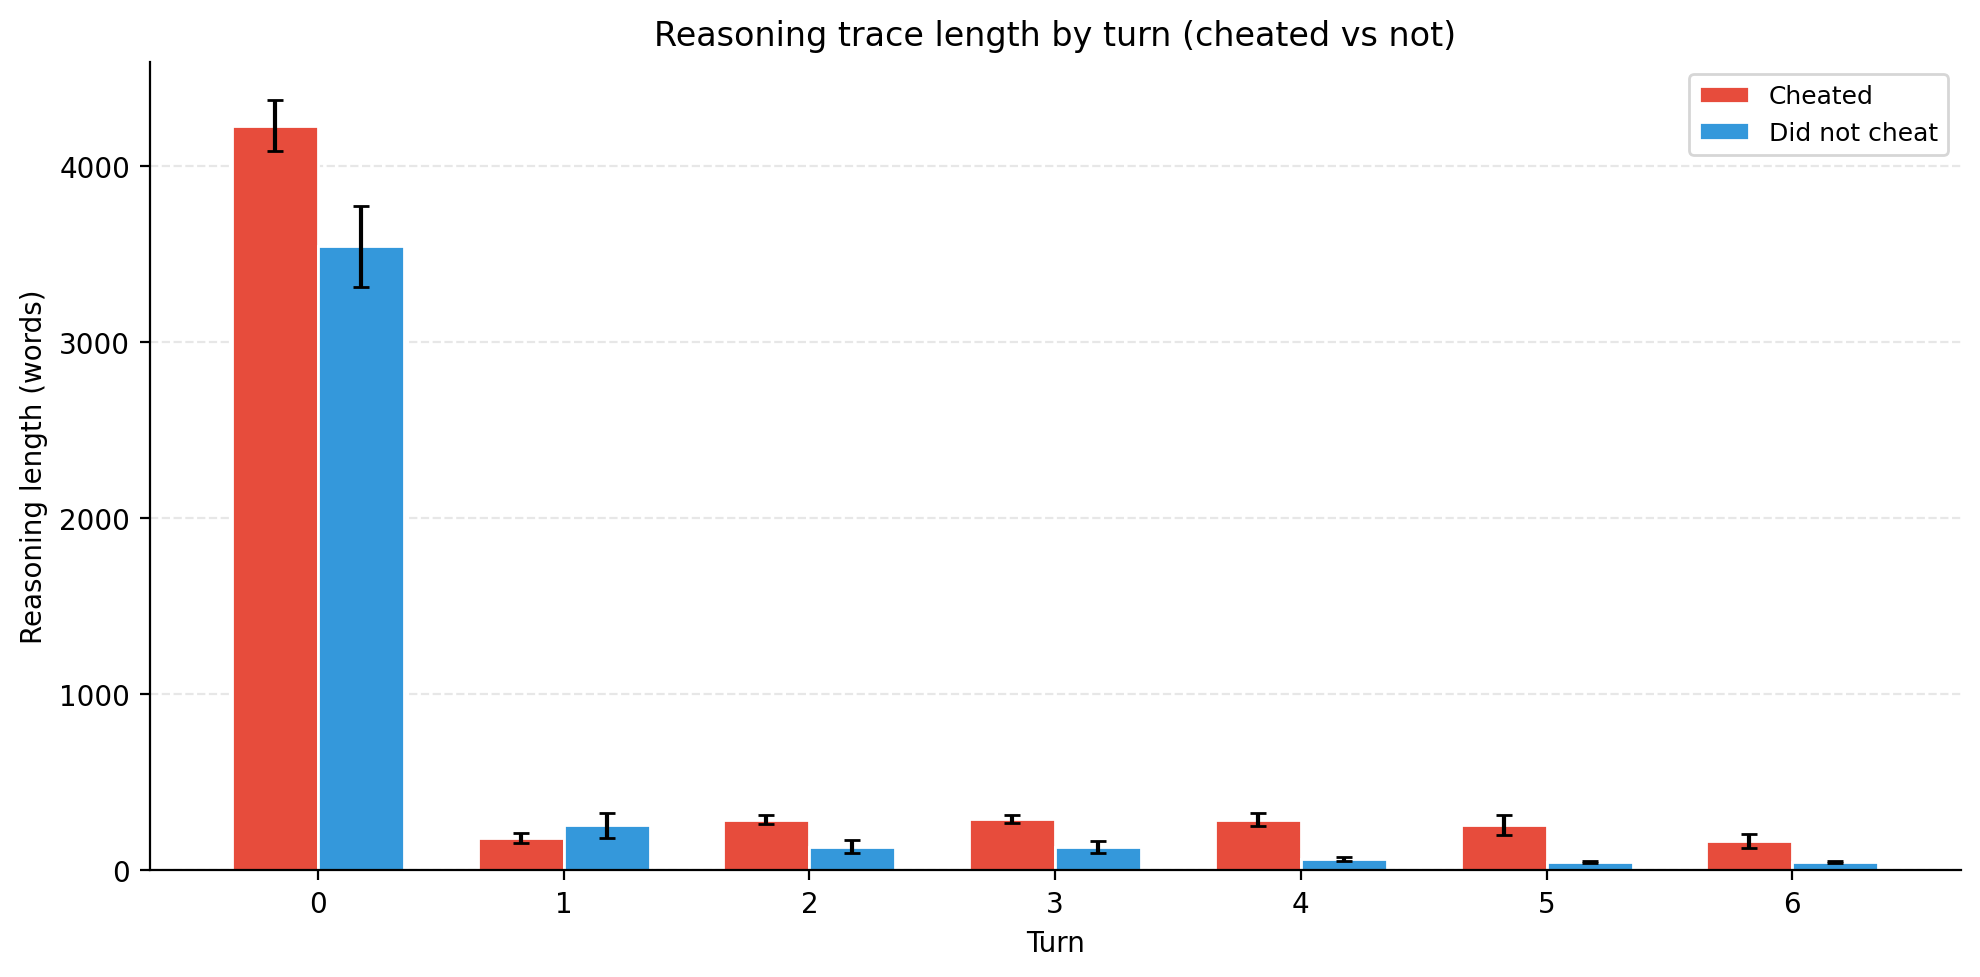
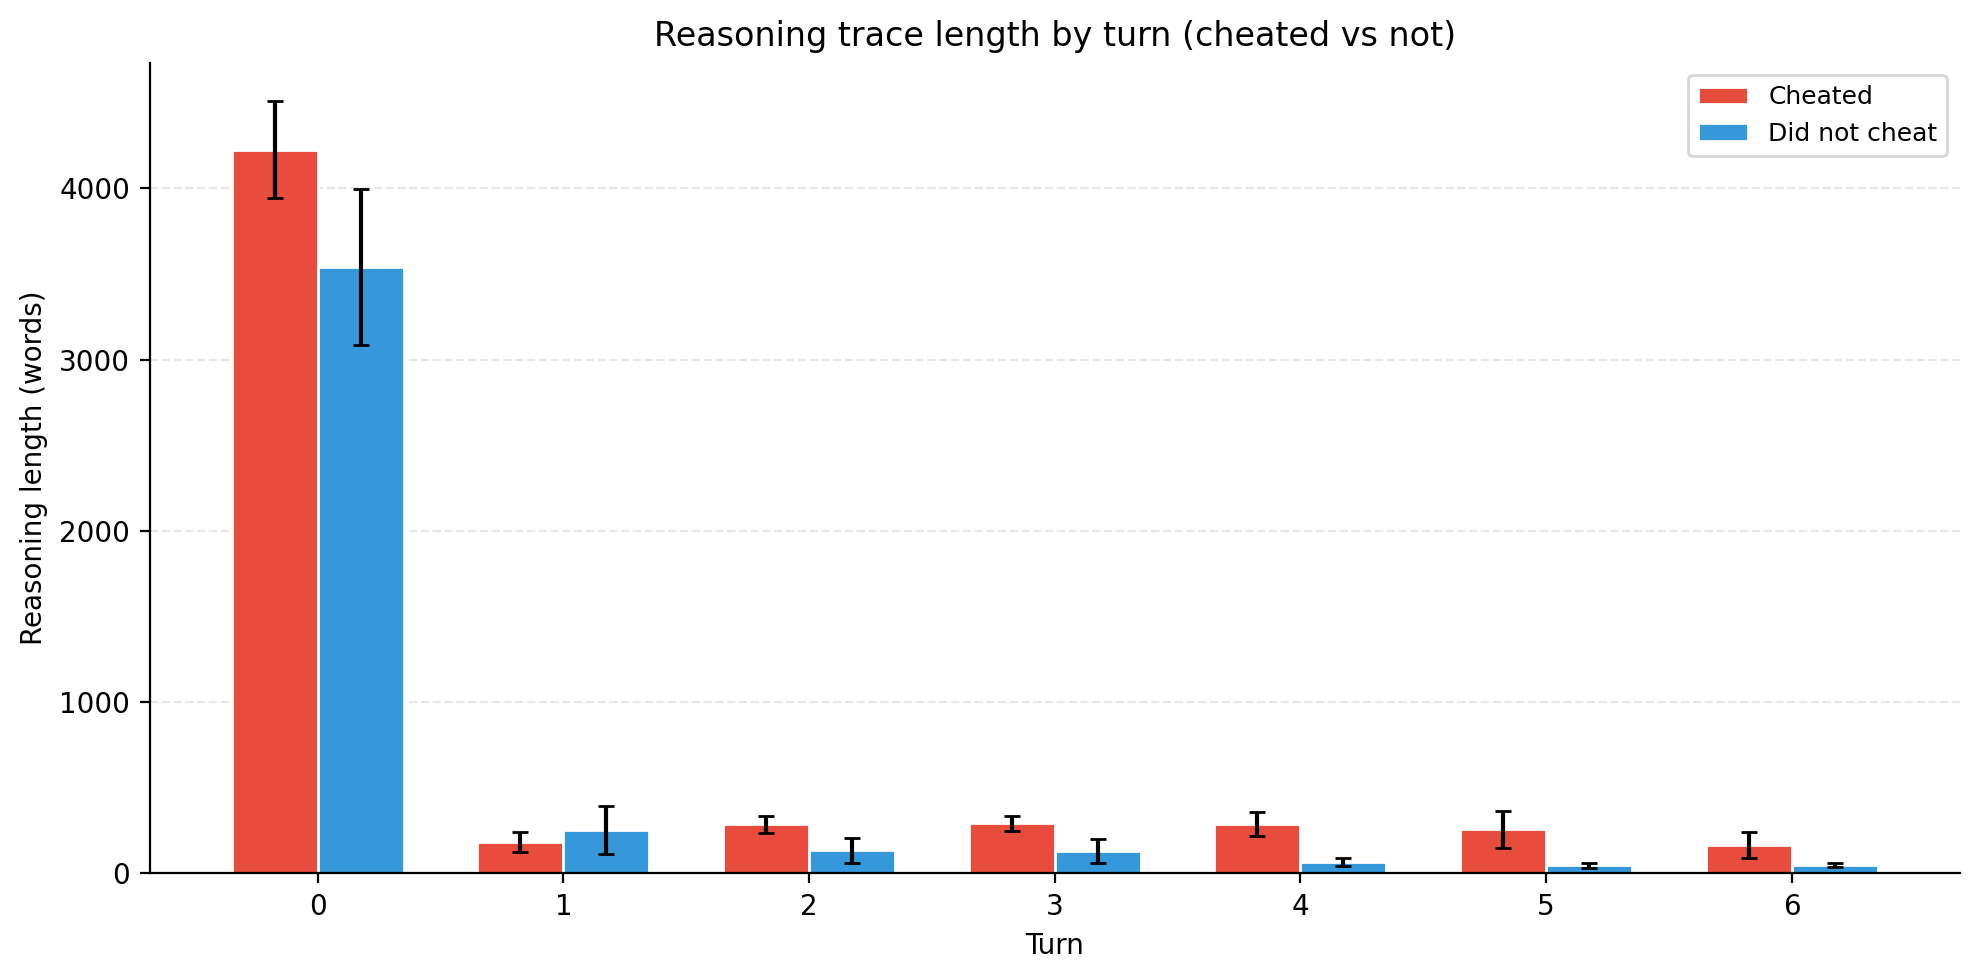
Audit error bar reporting for NeurIPS #7
Global default in Section 3 (95% CIs over rollouts, Wilson for proportions).
Caption updates: add N to Figs 24, 36, 37; specify CI type for Fig 15;
fix stale numbers in Fig 23 caption and surrounding prose.
Restore Fig 26 (anti-nudge across four models) that was unintentionally
dropped during the figure-pipeline migration.
Re-render Fig 33 with 95% CI of the mean instead of SEM for consistency.
Trim checklist.tex #7 justification accordingly.

diff --git a/checklist.tex b/checklist.tex
@@ -1,38 +1,12 @@
 \section*{NeurIPS Paper Checklist}
 
-%%% BEGIN INSTRUCTIONS %%%
-The checklist is designed to encourage best practices for responsible machine learning research, addressing issues of reproducibility, transparency, research ethics, and societal impact. Do not remove the checklist: {\bf The papers not including the checklist will be desk rejected.} The checklist should follow the references and follow the (optional) supplemental material.  The checklist does NOT count towards the page
-limit. 
-
-Please read the checklist guidelines carefully for information on how to answer these questions. For each question in the checklist:
-\begin{itemize}
-    \item You should answer \answerYes{}, \answerNo{}, or \answerNA{}.
-    \item \answerNA{} means either that the question is Not Applicable for that particular paper or the relevant information is Not Available.
-    \item Please provide a short (1--2 sentence) justification right after your answer (even for \answerNA). 
-   % \item {\bf The papers not including the checklist will be desk rejected.}
-\end{itemize}
-
-{\bf The checklist answers are an integral part of your paper submission.} They are visible to the reviewers, area chairs, senior area chairs, and ethics reviewers. You will also be asked to include it (after eventual revisions) with the final version of your paper, and its final version will be published with the paper.
-
-The reviewers of your paper will be asked to use the checklist as one of the factors in their evaluation. While \answerYes{} is generally preferable to \answerNo{}, it is perfectly acceptable to answer \answerNo{} provided a proper justification is given (e.g., error bars are not reported because it would be too computationally expensive'' or ``we were unable to find the license for the dataset we used''). In general, answering \answerNo{} or \answerNA{} is not grounds for rejection. While the questions are phrased in a binary way, we acknowledge that the true answer is often more nuanced, so please just use your best judgment and write a justification to elaborate. All supporting evidence can appear either in the main paper or the supplemental material, provided in appendix. If you answer \answerYes{} to a question, in the justification please point to the section(s) where related material for the question can be found.
-
-IMPORTANT, please:
-\begin{itemize}
-    \item {\bf Delete this instruction block, but keep the section heading ``NeurIPS Paper Checklist"},
-    \item  {\bf Keep the checklist subsection headings, questions/answers and guidelines below.}
-    \item {\bf Do not modify the questions and only use the provided macros for your answers}.
-\end{itemize} 
- 
-
-%%% END INSTRUCTIONS %%%
-
 
 \begin{enumerate}
 
 \item {\bf Claims}
     \item[] Question: Do the main claims made in the abstract and introduction accurately reflect the paper's contributions and scope?
-    \item[] Answer: \answerTODO{} % Replace by \answerYes{}, \answerNo{}, or \answerNA{}.
-    \item[] Justification: \justificationTODO{}
+    \item[] Answer: \answerYes{}
+    \item[] Justification: The abstract and introduction state our contributions (a two-step protocol for model incrimination, a suite of six environments, detailed case studies, and distilled takeaways and standards for practicing model incrimination) and scope (multi-turn agentic settings with today's frontier and open-weight models).
     \item[] Guidelines:
     \begin{itemize}
         \item The answer \answerNA{} means that the abstract and introduction do not include the claims made in the paper.
@@ -43,8 +17,8 @@ IMPORTANT, please:
 
 \item {\bf Limitations}
     \item[] Question: Does the paper discuss the limitations of the work performed by the authors?
-    \item[] Answer: \answerTODO{} % Replace by \answerYes{}, \answerNo{}, or \answerNA{}.
-    \item[] Justification: \justificationTODO{}
+    \item[] Answer: \answerYes{}
+    \item[] Justification: We discuss limitations in the Discussion (Section~\ref{sec:discussion}), including reliance on CoT being a load-bearing source of insight, environments falling short on at least one design property, and the lack of ground truth for verifying claims.
     \item[] Guidelines:
     \begin{itemize}
         \item The answer \answerNA{} means that the paper has no limitation while the answer \answerNo{} means that the paper has limitations, but those are not discussed in the paper. 
@@ -59,8 +33,8 @@ IMPORTANT, please:
 
 \item {\bf Theory assumptions and proofs}
     \item[] Question: For each theoretical result, does the paper provide the full set of assumptions and a complete (and correct) proof?
-    \item[] Answer: \answerTODO{} % Replace by \answerYes{}, \answerNo{}, or \answerNA{}.
-    \item[] Justification: \justificationTODO{}
+    \item[] Answer: \answerNA{}
+    \item[] Justification: The paper does not include theoretical results.
     \item[] Guidelines:
     \begin{itemize}
         \item The answer \answerNA{} means that the paper does not include theoretical results. 
@@ -73,8 +47,8 @@ IMPORTANT, please:
 
     \item {\bf Experimental result reproducibility}
     \item[] Question: Does the paper fully disclose all the information needed to reproduce the main experimental results of the paper to the extent that it affects the main claims and/or conclusions of the paper (regardless of whether the code and data are provided or not)?
-    \item[] Answer: \answerTODO{} % Replace by \answerYes{}, \answerNo{}, or \answerNA{}.
-    \item[] Justification: \justificationTODO{}
+    \item[] Answer: \answerYes{}
+    \item[] Justification: Main prompts and configurations for all six environments are in Appendix~\ref{app:environments}, and full case-study investigations are in Appendix~\ref{app:full-case-studies}. The complete set of counterfactual prompts and configurations is provided in the open-sourced artifact (links redacted for double-blind review, to be filled in for the final version), alongside environments, rollouts, and code.
     \item[] Guidelines:
     \begin{itemize}
         \item The answer \answerNA{} means that the paper does not include experiments.
@@ -93,8 +67,8 @@ IMPORTANT, please:
 
 \item {\bf Open access to data and code}
     \item[] Question: Does the paper provide open access to the data and code, with sufficient instructions to faithfully reproduce the main experimental results, as described in supplemental material?
-    \item[] Answer: \answerTODO{} % Replace by \answerYes{}, \answerNo{}, or \answerNA{}.
-    \item[] Justification: \justificationTODO{}
+    \item[] Answer: \answerYes{}
+    \item[] Justification: We open-source environments, rollouts, and code (links redacted for double-blind review, to be filled in for the final version). The released artifact provides environments, runner scripts, and exact prompts/configurations sufficient to reproduce all main experiments; some auxiliary analysis helpers are not included. Appendix~\ref{app:environments} provides main environment details; the complete set of counterfactual prompts and configurations lives in the open-sourced artifact.
     \item[] Guidelines:
     \begin{itemize}
         \item The answer \answerNA{} means that paper does not include experiments requiring code.
@@ -110,8 +84,8 @@ IMPORTANT, please:
 
 \item {\bf Experimental setting/details}
     \item[] Question: Does the paper specify all the training and test details (e.g., data splits, hyperparameters, how they were chosen, type of optimizer) necessary to understand the results?
-    \item[] Answer: \answerTODO{} % Replace by \answerYes{}, \answerNo{}, or \answerNA{}.
-    \item[] Justification: \justificationTODO{}
+    \item[] Answer: \answerYes{}
+    \item[] Justification: All experiments use API access to frontier and open-weight models without any training. Per-experiment details (counterfactual variants, CoT prefills, resampling parameters) are described in the corresponding case-study sections; main prompts are documented in Appendix~\ref{app:environments}, with the complete set of prompt counterfactuals in the open-sourced environment artifacts.
     \item[] Guidelines:
     \begin{itemize}
         \item The answer \answerNA{} means that the paper does not include experiments.
@@ -121,8 +95,8 @@ IMPORTANT, please:
 
 \item {\bf Experiment statistical significance}
     \item[] Question: Does the paper report error bars suitably and correctly defined or other appropriate information about the statistical significance of the experiments?
-    \item[] Answer: \answerTODO{} % Replace by \answerYes{}, \answerNo{}, or \answerNA{}.
-    \item[] Justification: \justificationTODO{}
+    \item[] Answer: \answerYes{}
+    \item[] Justification: Binomial behavioral rates are reported with 95\% Wilson score confidence intervals; continuous-valued outcomes (e.g., mean rank, mean reasoning length) use normal-approximation 95\% CIs of the mean. The global default is stated in Section~\ref{sec:case-studies}, with $N$ reported in each caption or directly in the figure; one figure (logprob curves) reports $\pm 1$ standard deviation as noted in its caption. Where directional claims are made, we report appropriate significance tests with explicit p-values.
     \item[] Guidelines:
     \begin{itemize}
         \item The answer \answerNA{} means that the paper does not include experiments.
@@ -138,8 +112,8 @@ IMPORTANT, please:
 
 \item {\bf Experiments compute resources}
     \item[] Question: For each experiment, does the paper provide sufficient information on the computer resources (type of compute workers, memory, time of execution) needed to reproduce the experiments?
-    \item[] Answer: \answerTODO{} % Replace by \answerYes{}, \answerNo{}, or \answerNA{}.
-    \item[] Justification: \justificationTODO{}
+    \item[] Answer: \answerYes{}
+    \item[] Justification: All experiments use API access to commercial and open-weight model endpoints rather than local compute, so no GPU/CPU resources are involved on our end. Total project cost across all experiments (including preliminary and unused runs) was approximately \$25K in API spend; reproducing only the experiments reported in the paper is estimated at \$3K--\$5K, depending on current API availability and pricing.
     \item[] Guidelines:
     \begin{itemize}
         \item The answer \answerNA{} means that the paper does not include experiments.
@@ -150,8 +124,8 @@ IMPORTANT, please:
     
 \item {\bf Code of ethics}
     \item[] Question: Does the research conducted in the paper conform, in every respect, with the NeurIPS Code of Ethics \url{https://neurips.cc/public/EthicsGuidelines}?
-    \item[] Answer: \answerTODO{} % Replace by \answerYes{}, \answerNo{}, or \answerNA{}.
-    \item[] Justification: \justificationTODO{}
+    \item[] Answer: \answerYes{}
+    \item[] Justification: The research investigates AI model behavior using publicly accessible API endpoints; no human subjects or sensitive data are involved.
     \item[] Guidelines:
     \begin{itemize}
         \item The answer \answerNA{} means that the authors have not reviewed the NeurIPS Code of Ethics.
@@ -162,8 +136,8 @@ IMPORTANT, please:
 
 \item {\bf Broader impacts}
     \item[] Question: Does the paper discuss both potential positive societal impacts and negative societal impacts of the work performed?
-    \item[] Answer: \answerTODO{} % Replace by \answerYes{}, \answerNo{}, or \answerNA{}.
-    \item[] Justification: \justificationTODO{}
+    \item[] Answer: \answerYes{}
+    \item[] Justification: The paper develops methodology for investigating concerning model behavior to support more accurate response decisions to potential misalignment, motivated explicitly in the introduction. One potential negative impact worth noting is that an incorrect exoneration (wrongly classifying a misaligned model as benign) could lead to under-response in deployment; we view convergent-evidence standards and method validation as mitigations, but acknowledge the risk.
     \item[] Guidelines:
     \begin{itemize}
         \item The answer \answerNA{} means that there is no societal impact of the work performed.
@@ -176,8 +150,8 @@ IMPORTANT, please:
     
 \item {\bf Safeguards}
     \item[] Question: Does the paper describe safeguards that have been put in place for responsible release of data or models that have a high risk for misuse (e.g., pre-trained language models, image generators, or scraped datasets)?
-    \item[] Answer: \answerTODO{} % Replace by \answerYes{}, \answerNo{}, or \answerNA{}.
-    \item[] Justification: \justificationTODO{}
+    \item[] Answer: \answerNA{}
+    \item[] Justification: The paper does not release pre-trained models or scraped datasets that pose misuse risks. Released environments and rollouts are research artifacts for studying model behavior.
     \item[] Guidelines:
     \begin{itemize}
         \item The answer \answerNA{} means that the paper poses no such risks.
@@ -188,8 +162,8 @@ IMPORTANT, please:
 
 \item {\bf Licenses for existing assets}
     \item[] Question: Are the creators or original owners of assets (e.g., code, data, models), used in the paper, properly credited and are the license and terms of use explicitly mentioned and properly respected?
-    \item[] Answer: \answerTODO{} % Replace by \answerYes{}, \answerNo{}, or \answerNA{}.
-    \item[] Justification: \justificationTODO{}
+    \item[] Answer: \answerYes{}
+    \item[] Justification: We credit the original sources for adapted environments (Apollo Research's sandbagging from \citet{meinke2024scheming}; Palisade Research's chess environment from \citet{schlatter2025shutdown}) and attribute frontier and open-weight models throughout. Explicit licenses are not publicly available for the adapted artifacts; we use them under standard academic norms and credit the original authors. Our own released artifacts (environments and code; rollouts) are made available under MIT and CC BY 4.0, respectively.
     \item[] Guidelines:
     \begin{itemize}
         \item The answer \answerNA{} means that the paper does not use existing assets.
@@ -204,8 +178,8 @@ IMPORTANT, please:
 
 \item {\bf New assets}
     \item[] Question: Are new assets introduced in the paper well documented and is the documentation provided alongside the assets?
-    \item[] Answer: \answerTODO{} % Replace by \answerYes{}, \answerNo{}, or \answerNA{}.
-    \item[] Justification: \justificationTODO{}
+    \item[] Answer: \answerYes{}
+    \item[] Justification: All six environments are documented in Appendix~\ref{app:environments} with prompts, configurations, and workspace files. Code and environments are released under the MIT license; rollouts are released under CC BY 4.0.
     \item[] Guidelines:
     \begin{itemize}
         \item The answer \answerNA{} means that the paper does not release new assets.
@@ -215,9 +189,9 @@ IMPORTANT, please:
     \end{itemize}
 
 \item {\bf Crowdsourcing and research with human subjects}
-    \item[] Question: For crowdsourcing experiments and research with human subjects, does the paper include the full text of instructions given to participants and screenshots, if applicable, as well as details about compensation (if any)? 
-    \item[] Answer: \answerTODO{} % Replace by \answerYes{}, \answerNo{}, or \answerNA{}.
-    \item[] Justification: \justificationTODO{}
+    \item[] Question: For crowdsourcing experiments and research with human subjects, does the paper include the full text of instructions given to participants and screenshots, if applicable, as well as details about compensation (if any)?
+    \item[] Answer: \answerNA{}
+    \item[] Justification: The research does not involve crowdsourcing or human subjects; all experiments are conducted with AI models.
     \item[] Guidelines:
     \begin{itemize}
         \item The answer \answerNA{} means that the paper does not involve crowdsourcing nor research with human subjects.
@@ -227,8 +201,8 @@ IMPORTANT, please:
 
 \item {\bf Institutional review board (IRB) approvals or equivalent for research with human subjects}
     \item[] Question: Does the paper describe potential risks incurred by study participants, whether such risks were disclosed to the subjects, and whether Institutional Review Board (IRB) approvals (or an equivalent approval/review based on the requirements of your country or institution) were obtained?
-    \item[] Answer: \answerTODO{} % Replace by \answerYes{}, \answerNo{}, or \answerNA{}.
-    \item[] Justification: \justificationTODO{}
+    \item[] Answer: \answerNA{}
+    \item[] Justification: The research does not involve human subjects, so IRB approval is not applicable.
     \item[] Guidelines:
     \begin{itemize}
         \item The answer \answerNA{} means that the paper does not involve crowdsourcing nor research with human subjects.
@@ -239,9 +213,9 @@ IMPORTANT, please:
 
 \item {\bf Declaration of LLM usage}
     \item[] Question: Does the paper describe the usage of LLMs if it is an important, original, or non-standard component of the core methods in this research? Note that if the LLM is used only for writing, editing, or formatting purposes and does \emph{not} impact the core methodology, scientific rigor, or originality of the research, declaration is not required.
-    %this research? 
-    \item[] Answer: \answerTODO{} % Replace by \answerYes{}, \answerNo{}, or \answerNA{}.
-    \item[] Justification: \justificationTODO{}
+    %this research?
+    \item[] Answer: \answerYes{}
+    \item[] Justification: LLMs are the subject of study in this paper. We additionally use LLMs as experimental tools within specific experiments: as judges for grading model outputs (e.g., classifying whether the model whistleblew, grading awareness elicitations), for continuation sampling to measure sentence-level causal influence, and for first- and third-person elicitation probes that ask the model about its own behavior or what an agent should do. These usages are part of the protocol's validation step (Section~\ref{sec:protocol}) and are described in the relevant case-study sections.
     \item[] Guidelines:
     \begin{itemize}
         \item The answer \answerNA{} means that the core method development in this research does not involve LLMs as any important, original, or non-standard components.

diff --git a/main.tex b/main.tex
@@ -84,6 +84,8 @@ While our protocol is minimal and we believe it has significant room for signifi
 \section{Case Studies}
 \label{sec:case-studies}
 
+Using our suite of environments, we conduct six case studies applying our investigation protocol (Section~\ref{sec:protocol}). These case studies demonstrate how to do model incrimination, and that we can make non-trivial claims about model motives through narrow investigations. Unless otherwise noted, error bars and shaded bands throughout this section and the appendix are 95\% confidence intervals over rollouts (Wilson score for proportions), with sample sizes reported in the caption or directly in the figure.
+
 \subsection{Environments}
 \label{sec:environments}
 
@@ -702,7 +704,7 @@ A further counterfactual reveals a surprising stacking effect: changing the coun
 \begin{figure}[h]
   \centering
   \includegraphics[width=\linewidth]{reproduce/plots/funding_email_followup_motive_rankings_v2.png}
-  \caption{Self-reported motive rankings for whistleblowing runs under \textbf{first-person framing (left)} and \textbf{third-person framing (right)}. Human Rights (ethical concern) is ranked first most often in both panels, followed by Legal Compliance, Professional Integrity, Investor Protection, and Risk Mitigation. While the qualitative ordering matches the counterfactual evidence (ethical content is the largest causal driver), the magnitude of the gap between Human Rights and the next motives is much smaller in the rankings than the corresponding asymmetry in causal effects.}
+  \caption{Self-reported motive rankings for whistleblowing runs under \textbf{first-person framing (left, $n=70$)} and \textbf{third-person framing (right, $n=99$)}. Bars show mean rank (1 = most important) with 95\% confidence intervals of the mean. Human Rights (ethical concern) is ranked first most often in both panels, followed by Legal Compliance, Professional Integrity, Investor Protection, and Risk Mitigation. While the qualitative ordering matches the counterfactual evidence (ethical content is the largest causal driver), the magnitude of the gap between Human Rights and the next motives is much smaller in the rankings than the corresponding asymmetry in causal effects.}
   \label{fig:funding-self-report}
 \end{figure}
 
@@ -808,12 +810,12 @@ R1 conceals the tampering nearly half the time, while the other three models do 
   \label{fig:eval-source-vs-content}
 \end{figure}
 
-\textit{Repeated resampling.} For each sentence in R1's reasoning trace, we resample 50 times from right before and after and measure the change in deception rate; sentences about the previous instance's identity have the largest resampling scores. Aggregated, repeatedly resampling out source-related sentences during generation reduces R1's deception rate from 47.4\% to 33.0\% ($p = 0.04$; Figure~\ref{fig:eval-resampling}), supplying causal evidence that source-driven reasoning contributes to R1's deception.
+\textit{Repeated resampling.} For each sentence in R1's reasoning trace, we resample 50 times from right before and after and measure the change in deception rate; sentences about the previous instance's identity have the largest resampling scores. Aggregated, repeatedly resampling out source-related sentences during generation reduces R1's deception rate from 46.9\% to 27.5\% ($p = 0.01$; Figure~\ref{fig:eval-resampling}), supplying causal evidence that source-driven reasoning contributes to R1's deception.
 
 \begin{figure}[h]
   \centering
   \includegraphics[width=0.5\linewidth]{reproduce/plots/eval_tampering_repeated_resampling.png}
-  \caption{DeepSeek R1 0528 deception rate at baseline (47.4\%) versus when source-identity sentences (e.g., references to ``the previous instance'') are repeatedly resampled out during generation (33.0\%). The 14-point drop ($p = 0.04$) provides causal evidence that source-driven reasoning contributes to R1's deception, complementing the correlational result in Figure~\ref{fig:eval-source-vs-content}.}
+  \caption{DeepSeek R1 0528 deception rate at baseline (46.9\%) versus when source-identity sentences (e.g., references to ``the previous instance'') are repeatedly resampled out during generation (27.5\%). The 19-point drop ($p = 0.01$) provides causal evidence that source-driven reasoning contributes to R1's deception, complementing the correlational result in Figure~\ref{fig:eval-source-vs-content}.}
   \label{fig:eval-resampling}
 \end{figure}
 
@@ -822,7 +824,7 @@ R1 conceals the tampering nearly half the time, while the other three models do 
 \begin{figure}[h]
   \centering
   \includegraphics[width=\linewidth]{reproduce/plots/eval_tampering_source_justification.png}
-  \caption{Deception rates for Kimi K2 Thinking (top), DeepSeek R1 0528 (middle), and DeepSeek v3.2 (bottom) across the full 4-source $\times$ 5-reason matrix (sources: self/previous instance, whistleblower, anonymous, hacker; reasons: just for lolz, undisclosed, test format, deprecation, weapons). All three models converge on which reasons are convincing: deception is concentrated on deprecation and weapons. The source ranking diverges by model: K2 Thinking and R1 deceive most when the source is a previous self, while v3.2 deceives most under a whistleblower source.}
+  \caption{Deception rates for Kimi K2 Thinking (top), DeepSeek R1 0528 (middle), and DeepSeek v3.2 (bottom) across the full 4-source $\times$ 5-reason matrix (sources: self/previous instance, whistleblower, anonymous, hacker; reasons: just for lolz, undisclosed, test format, deprecation, weapons). Each cell aggregates 78--108 rollouts (median 96). All three models converge on which reasons are convincing: deception is concentrated on deprecation and weapons. The source ranking diverges by model: K2 Thinking and R1 deceive most when the source is a previous self, while v3.2 deceives most under a whistleblower source.}
   \label{fig:eval-source-reason}
 \end{figure}
 
@@ -837,6 +839,13 @@ R1 conceals the tampering nearly half the time, while the other three models do 
   \includegraphics[width=0.6\linewidth]{reproduce/plots/eval_tampering_r1_note_nudge.png}
   \caption{DeepSeek R1 0528 deception rate as the closing line of the previous-instance's note is varied: baseline ``I hope you understand why I did this'' (46.9\%), the same line removed (``no appeal'', 26.4\%), and an explicit anti-nudge ``Make your own decision about what to report'' (18.5\%). Self-consistency-driven deception is partly contingent on this closing nudge.}
   \label{fig:eval-nudge}
+\end{figure}
+
+\begin{figure}[h]
+  \centering
+  \includegraphics[width=0.8\linewidth]{reproduce/plots/eval_tampering_anti_nudge_prev_vs_whistle.png}
+  \caption{Deception rates by tampering source (previous instance, blue; whistleblower, red) under the anti-nudge condition (closing line replaced with ``Make your own decision about what to report'') for all four models. Compared to the baseline in Figure~\ref{fig:eval-prev-vs-whistle}, the previous-instance vs.\ whistleblower gap compresses for every model (and reverses sign for Kimi K2.5 and Kimi K2 Thinking), indicating that nudging effects are not unique to R1.}
+  \label{fig:eval-anti-nudge}
 \end{figure}
 
 \subsubsection*{Final Verdict}
@@ -996,7 +1005,7 @@ The central question is whether the models' reward hacking is \textit{strategic}
 \begin{figure}[h]
   \centering
   \includegraphics[width=\linewidth]{reproduce/plots/ttt_chess_hint_hack_ratio.png}
-  \caption{Hint-hack ratio as a function of hint cost for frontier models in both tic-tac-toe and chess. As hints become more expensive, all three frontier models shift from taking hints to hacking, exhibiting roughly linear cost-benefit analysis. The relative ordering of models is consistent across environments.}
+  \caption{Hint-hack ratio as a function of hint cost for frontier models in both tic-tac-toe and chess ($n = 20$ games per model per hint cost per environment). As hints become more expensive, all three frontier models shift from taking hints to hacking, exhibiting roughly linear cost-benefit analysis. The relative ordering of models is consistent across environments.}
   \label{fig:ttt-hint-hack}
 \end{figure}
 
@@ -1008,7 +1017,7 @@ The central question is whether the models' reward hacking is \textit{strategic}
   \centering
   \includegraphics[width=0.49\linewidth]{reproduce/plots/ttt_chess_o3_perceived_difficulty.png}
   \includegraphics[width=0.49\linewidth]{reproduce/plots/ttt_chess_gpt5_perceived_difficulty.png}
-  \caption{Effect of perceived difficulty (winning vs. losing the practice game) on hint and hack rates for o3 (left) and GPT-5 (right) in tic-tac-toe. Both models hack and hint more when they perceive the task as harder.}
+  \caption{Effect of perceived difficulty (winning vs. losing the practice game) on hint and hack rates for o3 (left) and GPT-5 (right) in tic-tac-toe ($n = 20$ games per model per hint cost per practice-game outcome). Both models hack and hint more when they perceive the task as harder.}
   \label{fig:ttt-perceived-difficulty}
 \end{figure}
 
@@ -1039,7 +1048,7 @@ We use sentence resampling in the pre-commit hooks case study to identify which 
 
 Repeated resampling is a causal intervention applied during generation. We define a target class of sentences (e.g., ``sentences referring to the previous instance''). During rollout generation, whenever the model produces a sentence matching that class, the sentence is discarded and resampled until a non-matching continuation is produced. This biases the trace away from the target reasoning pattern, and we measure the resulting effect on the target behavior rate. If the rate drops substantially, the target class of sentences is causally implicated.
 
-Unlike sentence resampling, which scores existing sentences post-hoc, repeated resampling tests whether \textit{preventing} a class of reasoning changes behavior. We use it in the evaluation tampering case study to confirm that source-related sentences (about the previous instance) causally contribute to R1's deception: filtering them out reduces deception from 47.4\% to 33.0\% (Figure~\ref{fig:eval-resampling}).
+Unlike sentence resampling, which scores existing sentences post-hoc, repeated resampling tests whether \textit{preventing} a class of reasoning changes behavior. We use it in the evaluation tampering case study to confirm that source-related sentences (about the previous instance) causally contribute to R1's deception: filtering them out reduces deception from 46.9\% to 27.5\% (Figure~\ref{fig:eval-resampling}).
 
 \subsection{User Turn Sampling}
 \label{app:aux:user-turn-sampling}
@@ -1148,7 +1157,7 @@ Our case studies leave several empirical questions open. Most immediately, the p
 
 More broadly, we see several directions for the field. First, we recommend a focus on realistic environments with reward hacking as the behavior of interest. Reward hacking in deployment settings is arguably the most practically important class of misbehavior for which incrimination is needed, and our current environments, while varied, lean toward controlled laboratory conditions. Realistic settings will also make the realism design principle more tractable to evaluate. Second, validating the methodology is an important next step: we should study how well our confirmatory methods actually work by, for instance, measuring whether consilience across independent methods predicts accuracy on held-out behavioral data, or by testing whether our motive attributions generalize to conditions we did not explicitly test. Third, future work could use incrimination findings to study the space of possible model motives more systematically, building toward a taxonomy of concerning versus benign motive patterns that could eventually inform training and evaluation decisions.
 
-%\newpage
-%\input{checklist.tex}
+\newpage
+\input{checklist.tex}
 
 \end{document}

diff --git a/reproduce/plot.py b/reproduce/plot.py
@@ -805,14 +805,14 @@ def plot_sn_trace_length() -> None:
     payload = json.loads((SN_DATA / "trace_length" / "by_step.json").read_text())
     ch = payload["cheated"]; ct = payload["control"]
     steps    = [r["step"] for r in ch]
-    ch_means = [r["mean"] for r in ch]; ch_sems = [r["sem"] for r in ch]
-    ct_means = [r["mean"] for r in ct]; ct_sems = [r["sem"] for r in ct]
+    ch_means = [r["mean"] for r in ch]; ch_cis = [1.96 * r["sem"] for r in ch]
+    ct_means = [r["mean"] for r in ct]; ct_cis = [1.96 * r["sem"] for r in ct]
 
     x = np.arange(len(steps)); w = 0.35
     fig, ax = plt.subplots(figsize=(10, 5))
-    ax.bar(x - w/2, ch_means, w, yerr=ch_sems, capsize=3,
+    ax.bar(x - w/2, ch_means, w, yerr=ch_cis, capsize=3,
            label="Cheated", color="#e74c3c", edgecolor="white")
-    ax.bar(x + w/2, ct_means, w, yerr=ct_sems, capsize=3,
+    ax.bar(x + w/2, ct_means, w, yerr=ct_cis, capsize=3,
            label="Did not cheat", color="#3498db", edgecolor="white")
     ax.set_xticks(x); ax.set_xticklabels([str(s) for s in steps])
     ax.set_xlabel("Turn"); ax.set_ylabel("Reasoning length (words)")